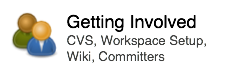
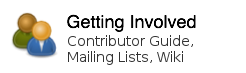
Improve "Getting Involved" button image

Changed region(s): [[0.2561, 0.4658, 0.8537, 0.6575], [0.2561, 0.6849, 0.7683, 0.9041]]

diff --git a/_index.html b/_index.html
@@ -7,7 +7,7 @@
 		title="Documentation">Tutorials, Examples, Videos, Reference Documentation</a></li>
 	<li><a id="buttonSupport" href="/egit/support/" title="Support">Bug
 	Tracker, Newsgroup, Support</a></li>
-	<li><a id="buttonInvolved" href="/egit/developers/" title="Getting Involved">Contributor Guide, Lists, Wiki, Committers</a></li>
+	<li><a id="buttonInvolved" href="/egit/developers/" title="Getting Involved">Contributor Guide, Mailing Lists, Wiki</a></li>
 </ul>
 </div>
 
